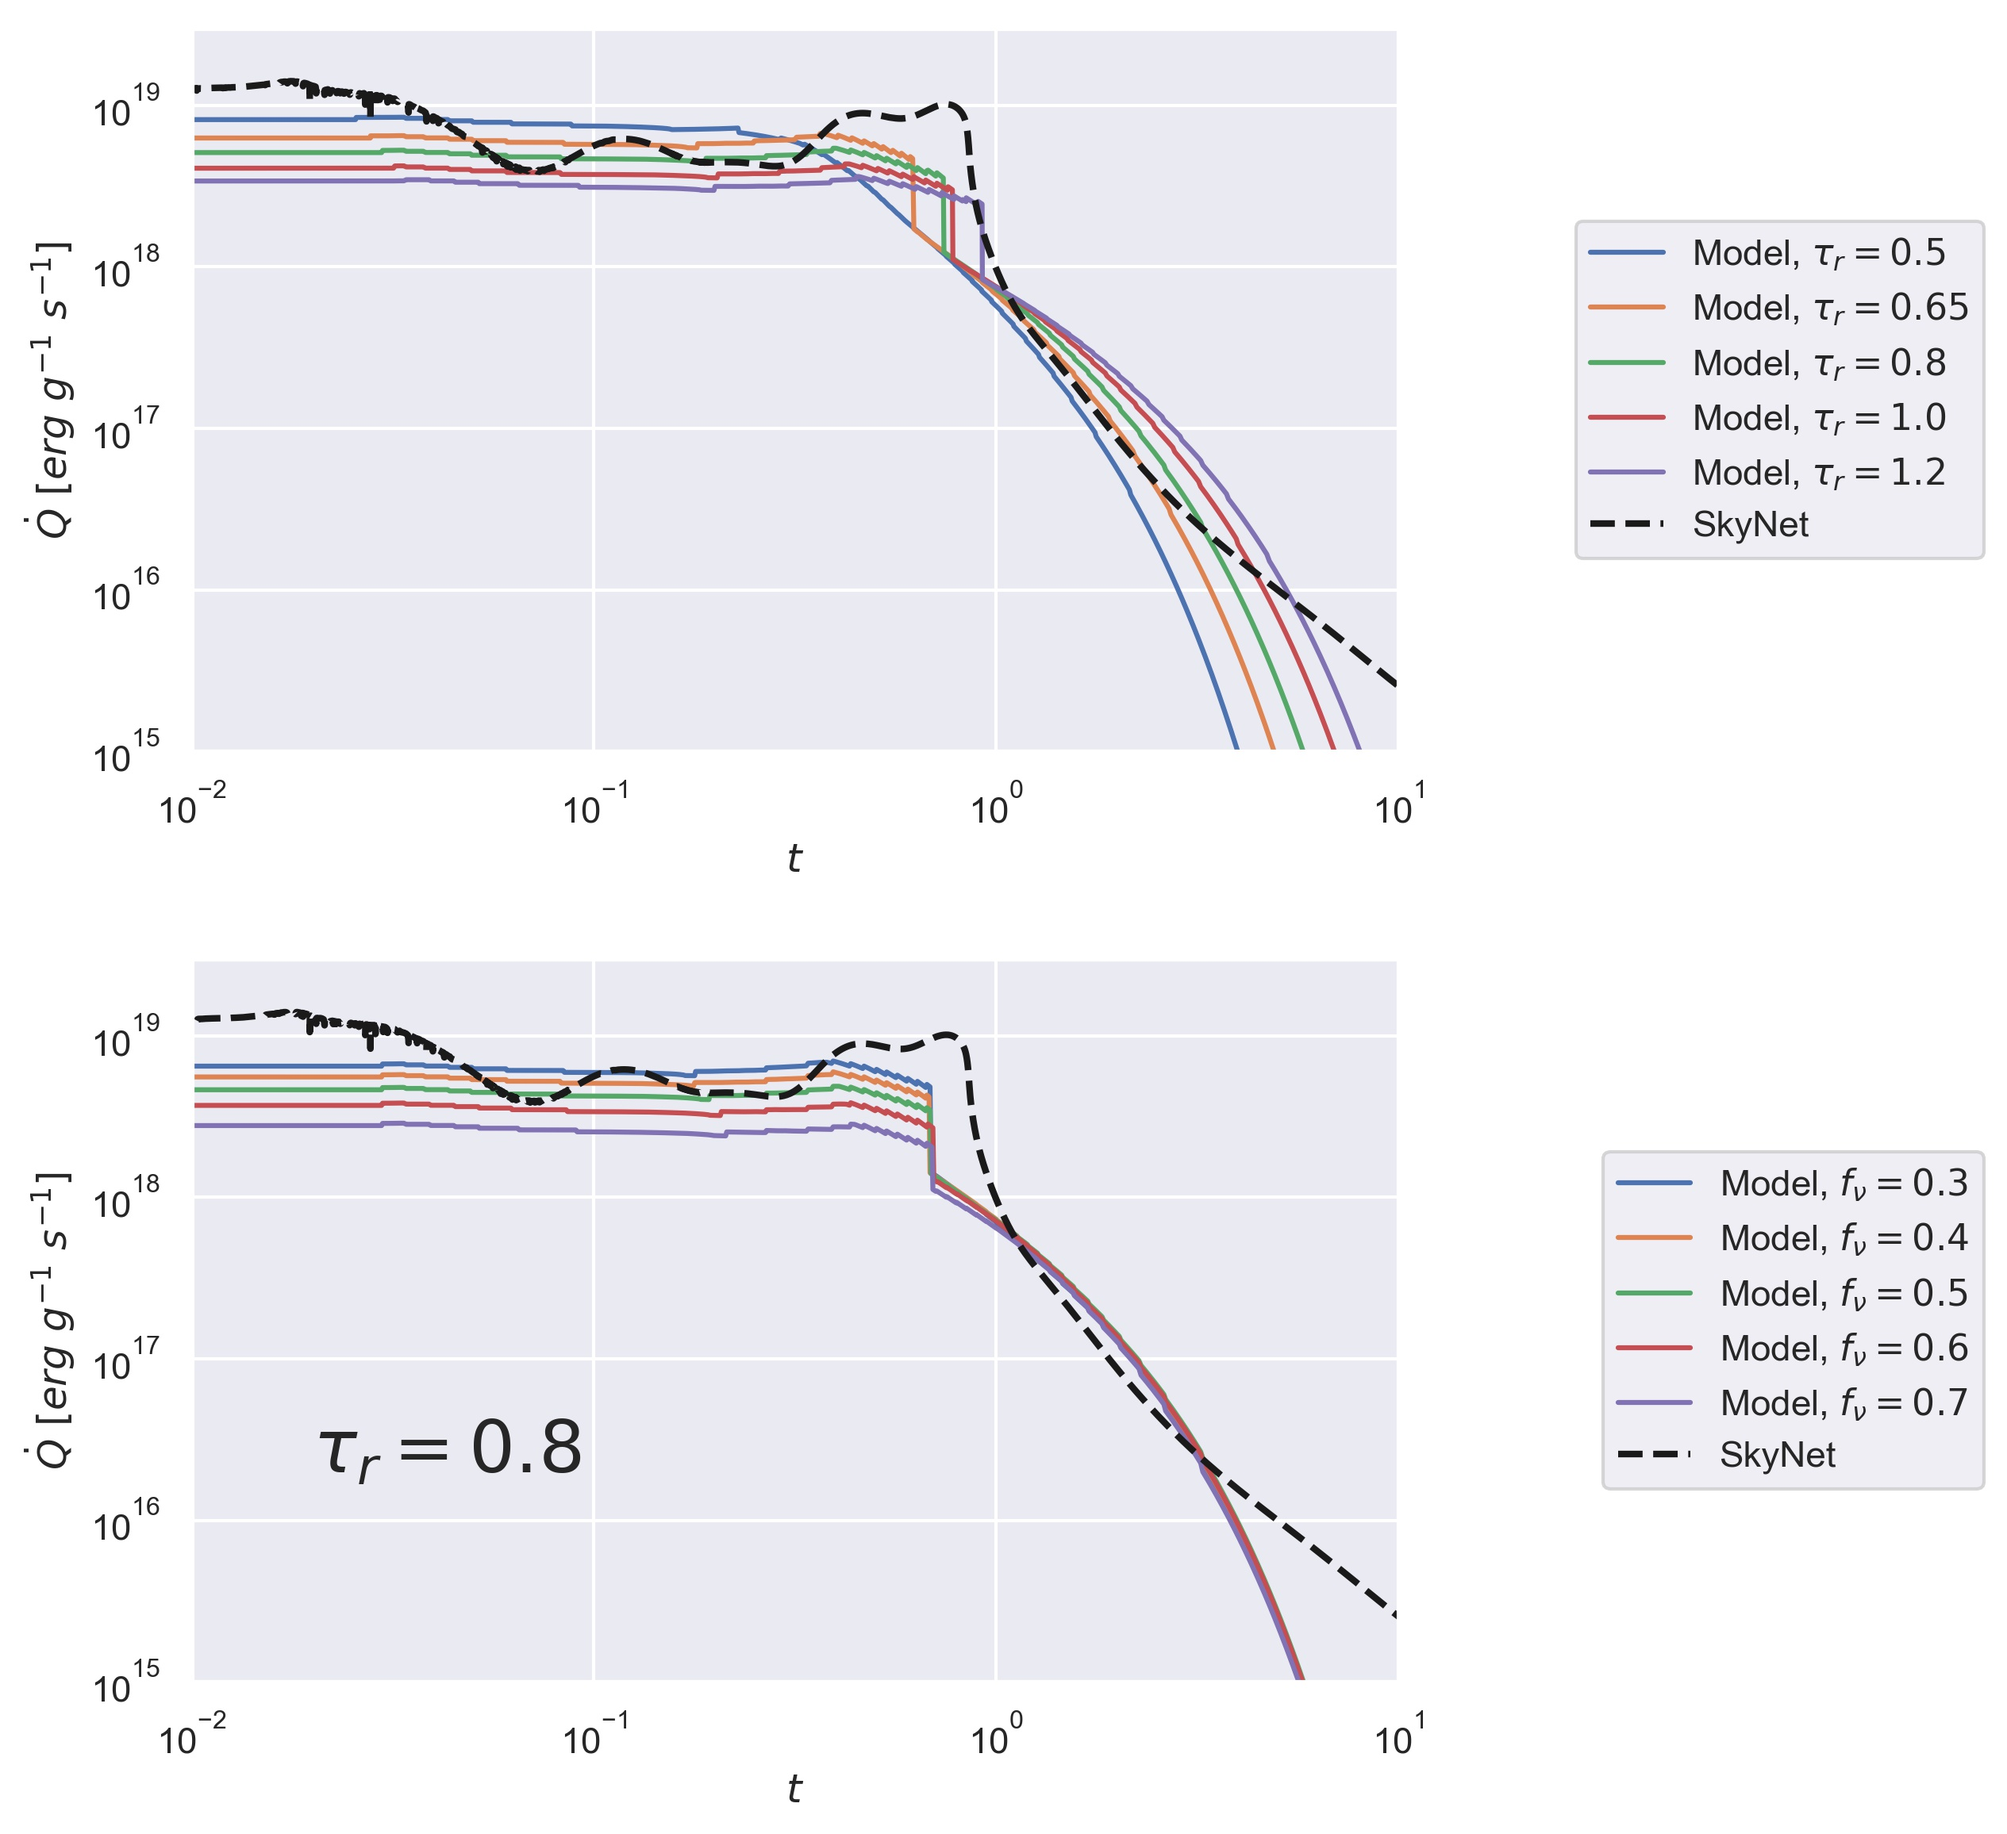
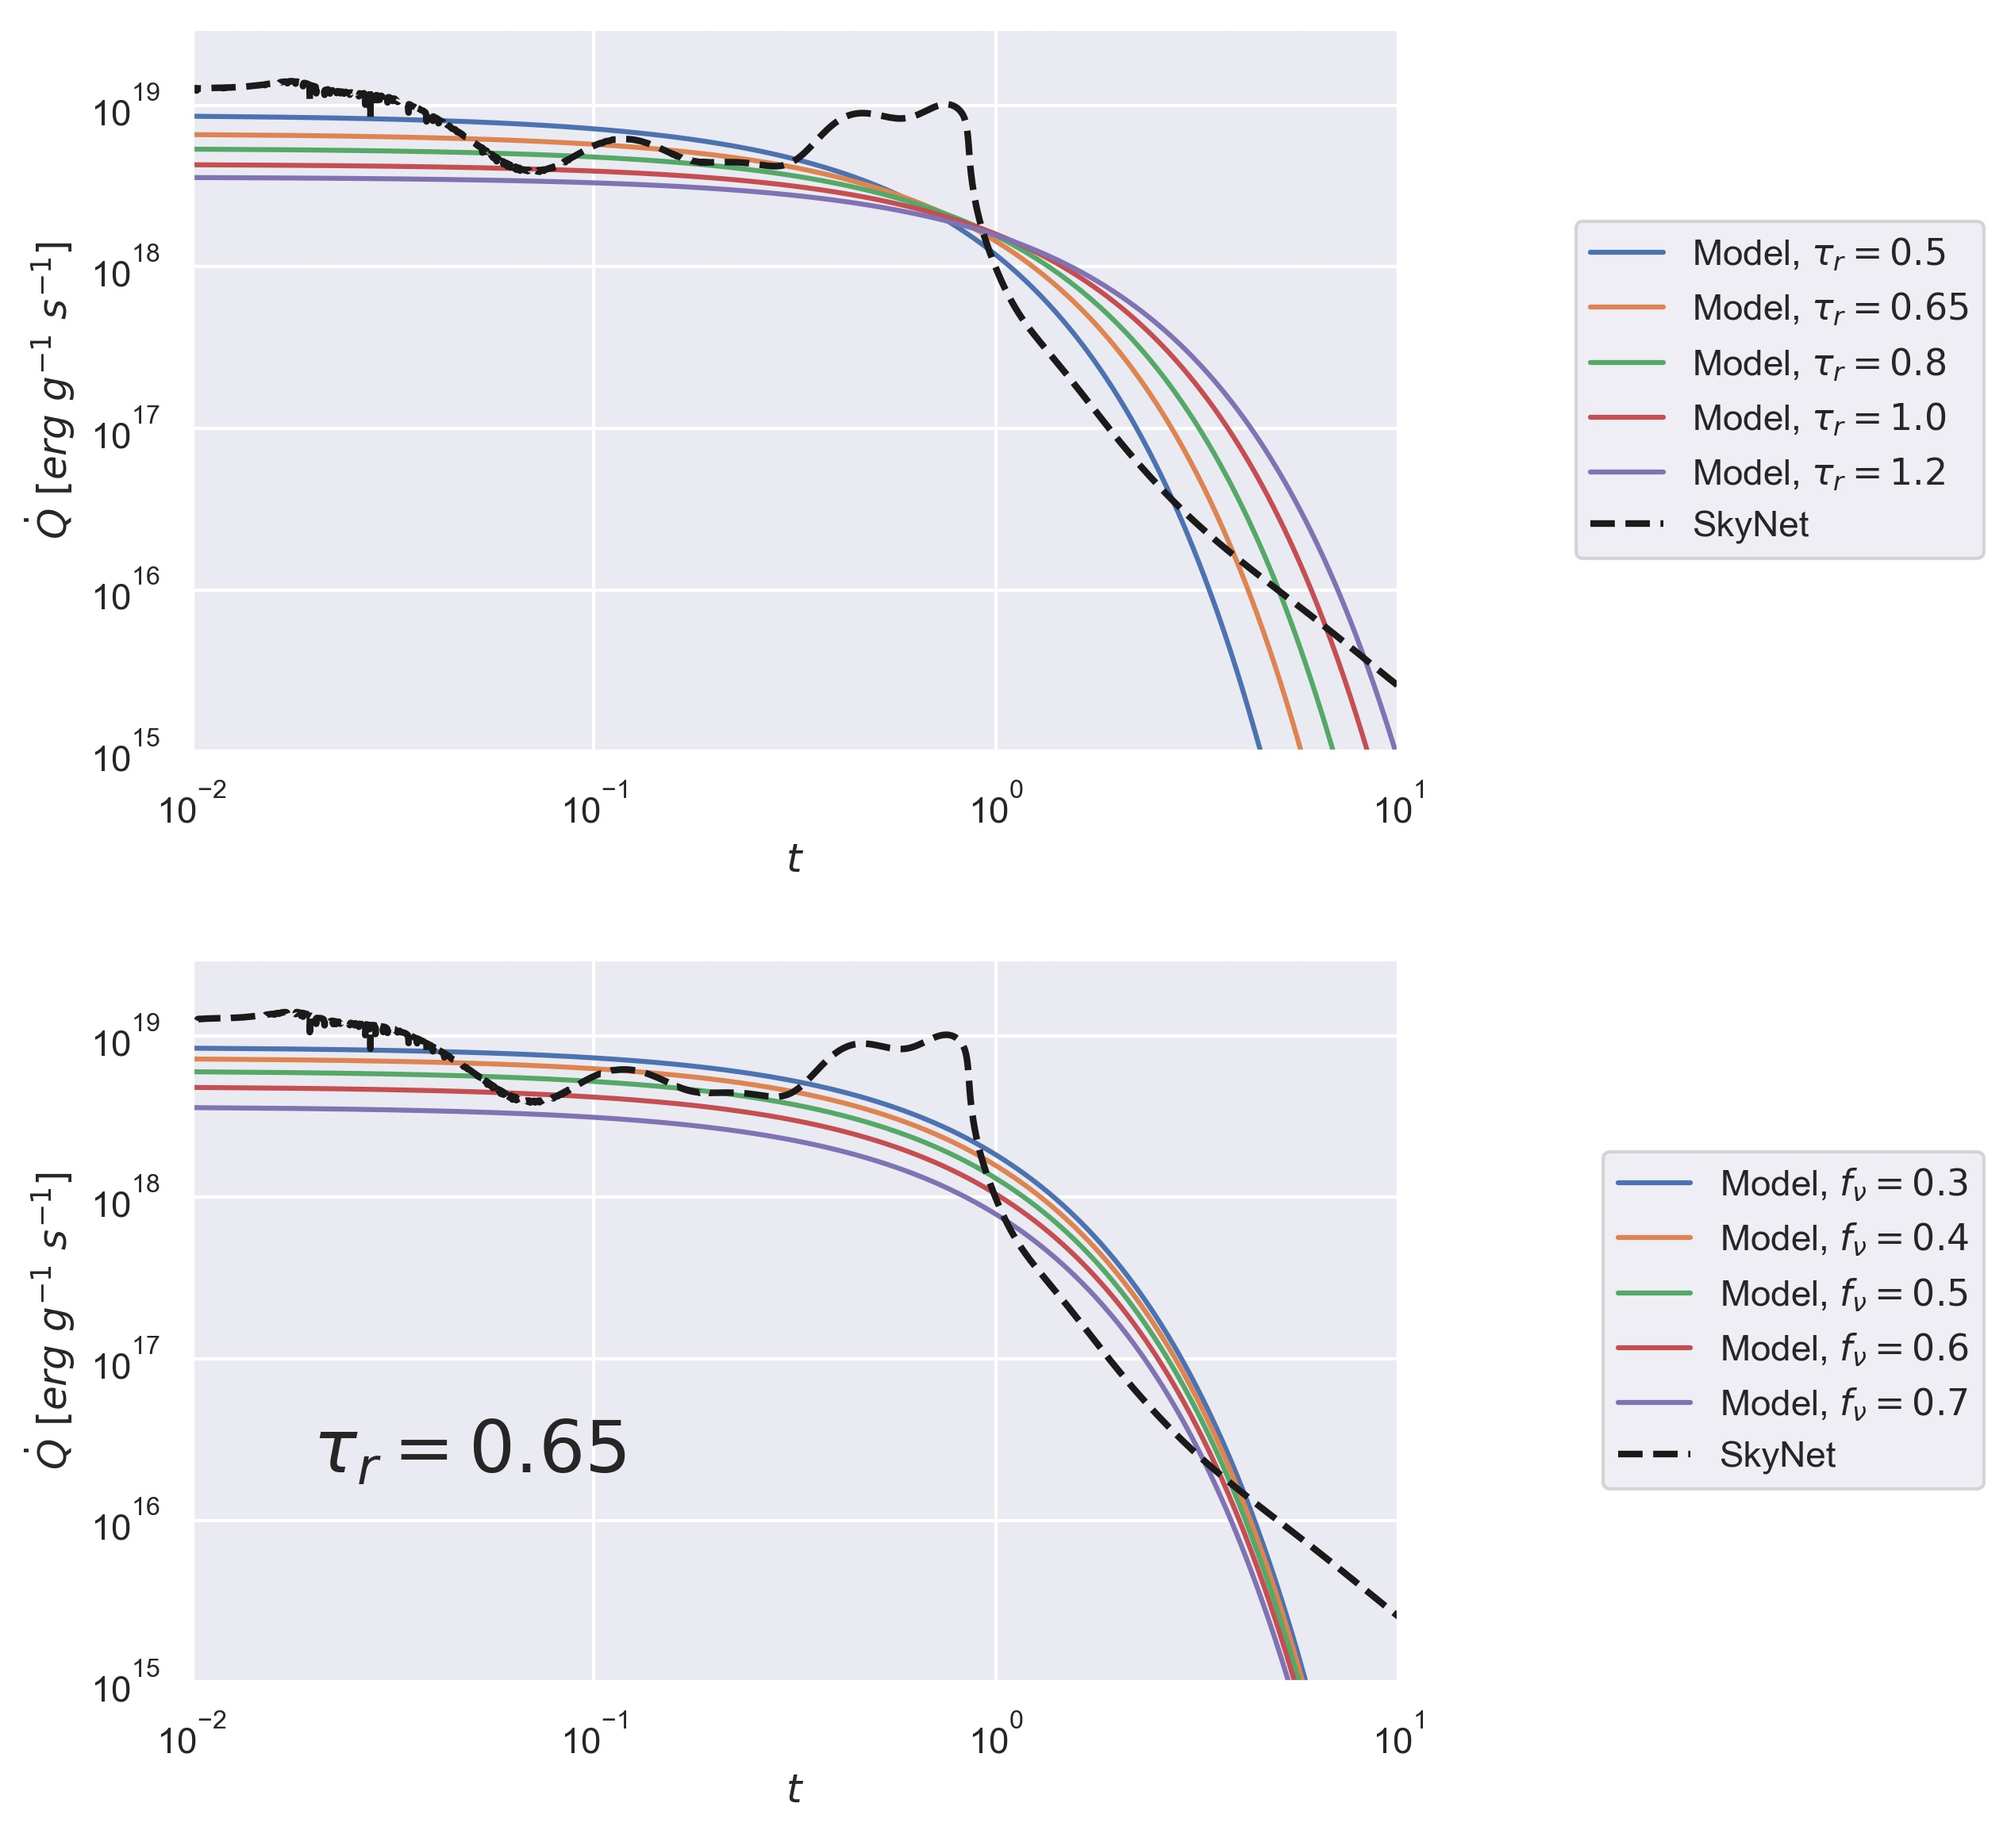
Parameters for model are chosen

diff --git a/CCAFlatiron/index.html b/CCAFlatiron/index.html
@@ -548,13 +548,13 @@
 								Comparison with SkyNet reaction network
 							</li>
 							<li>
-								Heating rate $\approx$ unchanged for $\tau_r >0.65$
+								Heating rate matches well for $\tau_r \lesssim 0.65$
 							</li>
 							<li>
 								Model favours lower $f_{\nu}$
 							</li>
 							<li>
-								Constrain $\tau_r$ by other means
+								Further constrain $\tau_r$ by other means
 							</li>
 						</ul>
 					</div>
@@ -563,17 +563,26 @@
 
 				<section data-background="YeEvolution.jpg" data-background-position="right" data-background-size="46%">
 					<div style="float: left; width:50%">
-						<br /><br />
+						<br />
 						<h3>R-process timescale, $\tau_r$</h3>
-						<br /><br />
+						<br />
 						<ul>
 							<li>
 								Constrain through evolution of $Y_e$
 							</li>
 							<li>
-								Model favours lower $\tau_r$
+								$\tau_r \approx 0.65$ gives good behaviour
 							</li>
-						</ul>
+							<li>
+								$Y_e^f \approx 0.38$
+							</li>
+						</ul><br />
+						So parameters for model are:
+						$$
+						\begin{align}
+							(Y_e^f, \tau_r, f_v) = (0.38, 0.65, 0.3)
+						\end{align}
+						$$
 					</div>
 				</section>
 
